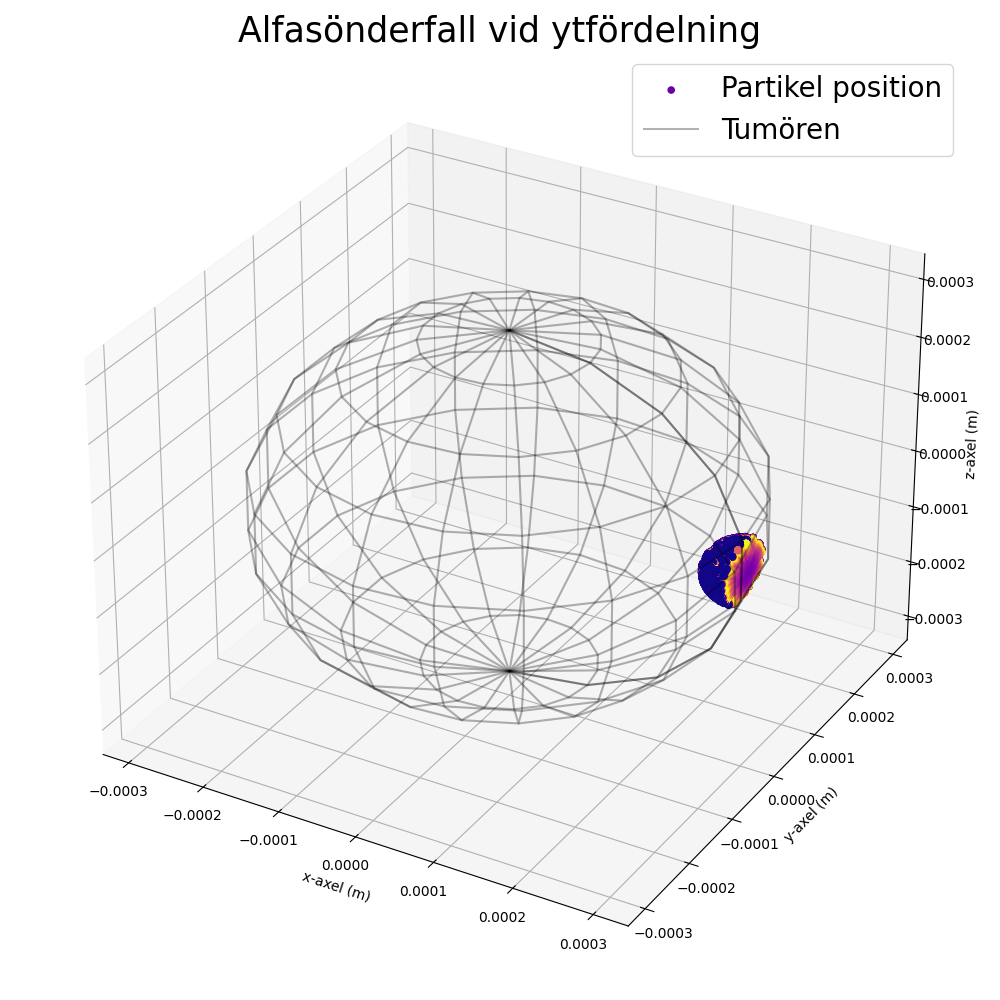
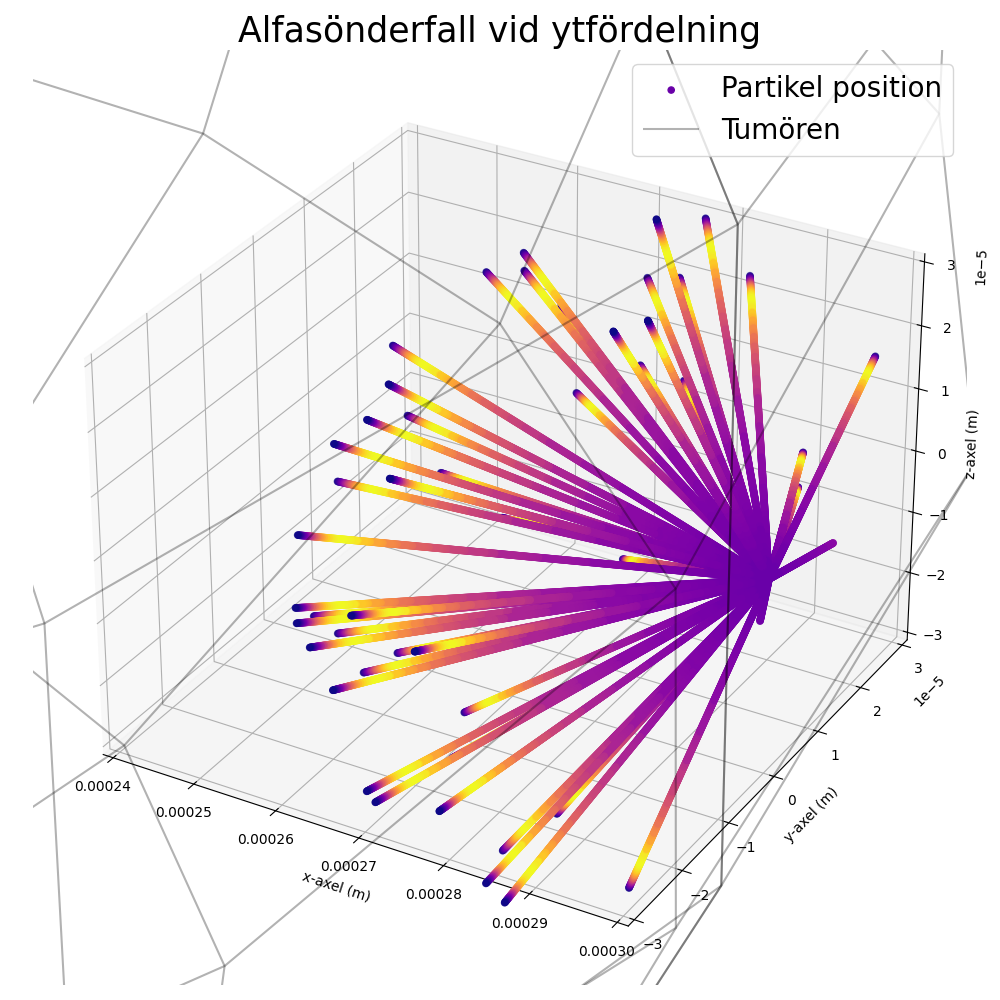
.

diff --git a/Martin/upg2_alfa_simulering.py b/Martin/upg2_alfa_simulering.py
@@ -98,7 +98,8 @@ def run_MC_alpha(iterationer, rho_medium, radie_partikel, stopping_power_data, p
     #   -----------------------------------
     #   Visualisera resultat i figur.
     #   -----------------------------------
-    """
+
+    # Figur normal
     fig = plt.figure(figsize=(10, 10))
     ax = fig.add_subplot(projection='3d')
     ax.scatter(x_list, y_list, z_list, c=dos_list, cmap='plasma', label='Partikel position')
@@ -123,7 +124,38 @@ def run_MC_alpha(iterationer, rho_medium, radie_partikel, stopping_power_data, p
     plt.tight_layout()
     plt.savefig(fig_title)
     plt.show()
-    """
+
+    # Figur inzoomad
+    fig = plt.figure(figsize=(10, 10))
+    ax = fig.add_subplot(projection='3d')
+    ax.scatter(x_list, y_list, z_list, c=dos_list, cmap='plasma', label='Partikel position')
+    # Fixa colorbar för att se energideponeringen i figuren
+
+    # fig.colorbar(ax=ax, label='Energideponering',)
+
+    ax.set_xlabel('x-axel (m)')
+    ax.set_ylabel('y-axel (m)')
+    ax.set_zlabel('z-axel (m)')
+
+    inzoom = radie_sfär / 10
+    ax.set_xlim([radie_sfär - 2 * inzoom, radie_sfär])
+    ax.set_ylim([-inzoom, inzoom])
+    ax.set_zlim([-inzoom, inzoom])
+
+    # Testar att sätta en sfär för tumören
+    u, v = np.mgrid[0:2 * np.pi:20j, 0:np.pi:10j]
+    x = radie_sfär * np.cos(u) * np.sin(v)
+    y = radie_sfär * np.sin(u) * np.sin(v)
+    z = radie_sfär * np.cos(v)
+    ax.plot_wireframe(x, y, z, color="k", alpha=0.3, label='Tumören')
+    ax.legend(fontsize=font_size)
+    plt.title(fig_title, fontsize=font_size_title)
+
+    # Visa figur
+    plt.tight_layout()
+    plt.savefig(fig_title)
+    plt.show()
+
     return energideponering_summa
 
 
@@ -152,12 +184,12 @@ if __name__ == "__main__":
     #   -----------------------------------
     #   Kör simuleringen med ingångsvärden.
     #   -----------------------------------
-    iterationer = 10 ** 3
+    iterationer = 10 ** 2
     dummy_iterationer = 10 ** 1
     max_antal_steg = 10 ** 3
 
     fig_title_skal = 'Alfasönderfall vid ytfördelning'
-    fig_title_innanför = 'Alfasönderfall vid uniform fördelning'
+    fig_title_innanför = 'Alfasönderfall vid homogen fördelning'
 
     stopping_power_data = np.loadtxt(stopping_power_alfa_file)
 

diff --git a/Martin/upg2_elektron_simulering.py b/Martin/upg2_elektron_simulering.py
@@ -89,7 +89,8 @@ def run_MC_elektron(iterationer, rho_medium, radie_partikel, stopping_power_data
     #   -----------------------------------
     #   Visualisera resultat i figur.
     #   -----------------------------------
-    """
+
+    # Figur normal
     fig = plt.figure(figsize=(10, 10))
     ax = fig.add_subplot(projection='3d')
     ax.scatter(x_list, y_list, z_list, c=dos_list, cmap='plasma', label='Partikel position')
@@ -114,7 +115,39 @@ def run_MC_elektron(iterationer, rho_medium, radie_partikel, stopping_power_data
     plt.tight_layout()
     plt.savefig(fig_title)
     plt.show()
-    """
+
+
+    # Figur inzoomad
+    fig = plt.figure(figsize=(10, 10))
+    ax = fig.add_subplot(projection='3d')
+    ax.scatter(x_list, y_list, z_list, c=dos_list, cmap='plasma', label='Partikel position')
+    # Fixa colorbar för att se energideponeringen i figuren
+
+    # fig.colorbar(ax=ax, label='Energideponering',)
+
+    ax.set_xlabel('x-axel (m)')
+    ax.set_ylabel('y-axel (m)')
+    ax.set_zlabel('z-axel (m)')
+
+    inzoom = radie_sfär / 10
+    ax.set_xlim([radie_sfär - 2 * inzoom, radie_sfär])
+    ax.set_ylim([-inzoom, inzoom])
+    ax.set_zlim([-inzoom, inzoom])
+
+    # Testar att sätta en sfär för tumören
+    u, v = np.mgrid[0:2 * np.pi:20j, 0:np.pi:10j]
+    x = radie_sfär * np.cos(u) * np.sin(v)
+    y = radie_sfär * np.sin(u) * np.sin(v)
+    z = radie_sfär * np.cos(v)
+    ax.plot_wireframe(x, y, z, color="k", alpha=0.3, label='Tumören')
+    ax.legend(fontsize=font_size)
+    plt.title(fig_title, fontsize=font_size_title)
+
+    # Visa figur
+    plt.tight_layout()
+    plt.savefig(fig_title)
+    plt.show()
+
     return energideponering_summa
 
 
@@ -158,7 +191,7 @@ if __name__ == "__main__":
     radie_sfär_innanför = 1 * 10 ** (-3)  # m
 
     fig_title_skal = 'Betasönderfall vid ytfördelning'
-    fig_title_innanför = 'Betasönderfall vid uniform fördelning'
+    fig_title_innanför = 'Betasönderfall vid homogen fördelning'
 
     print(
         '\n-----------------------------------\nDUMMY\n-----------------------------------\n')
